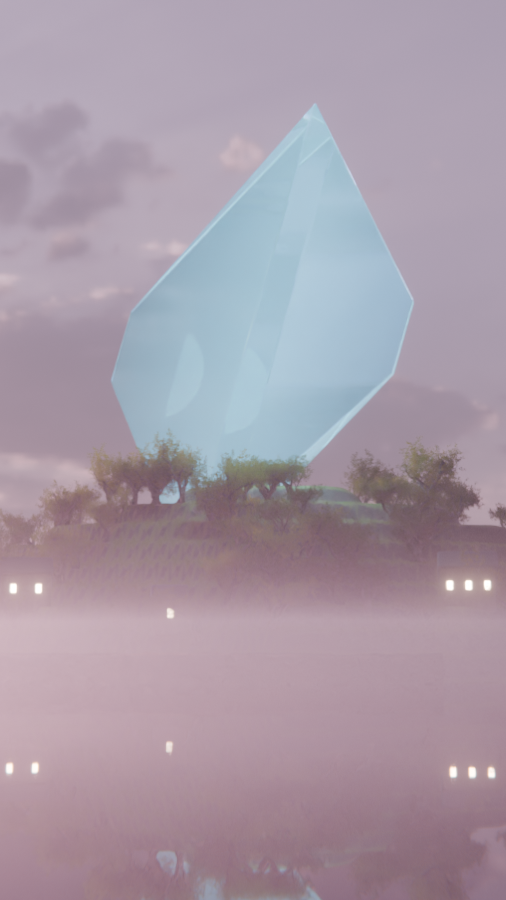
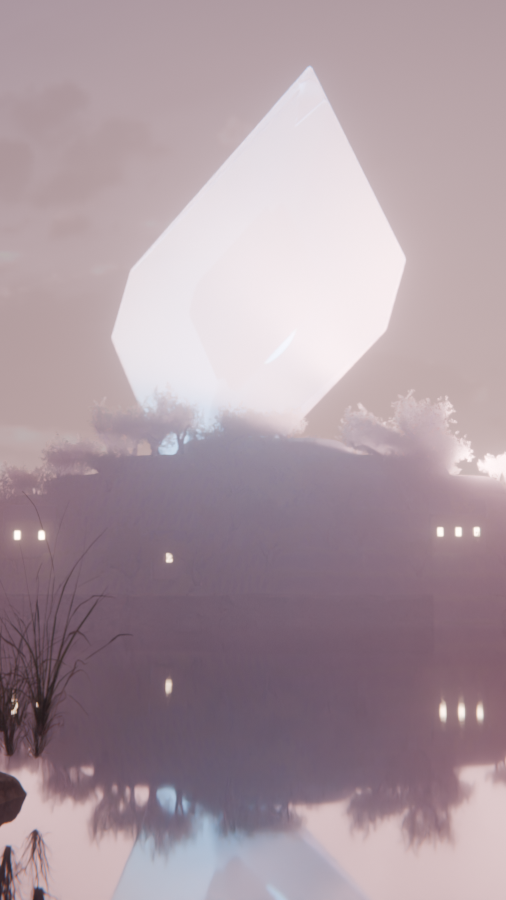
Crystal Isle second pass draft

diff --git a/directions/concept-isle/crystal_isle.py b/directions/concept-isle/crystal_isle.py
@@ -98,8 +98,12 @@ vol = N.new('ShaderNodeVolumePrincipled')
 vol.inputs['Color'].default_value = SKY
 vol.inputs['Density'].default_value = 0.012; vol.inputs['Absorption Color'].default_value = SKY
 vol.inputs['Emission Color'].default_value = SKY
-vol.inputs['Emission Strength'].default_value = 0.05
-L.new(vol.outputs[0], N['Material Output'].inputs['Volume'])
+vol.inputs['Emission Strength'].default_value = 0.02
+# tint the light passing through the body so the backlit dawn turns sky blue inside the glass
+ab = N.new('ShaderNodeVolumeAbsorption'); ab.inputs['Color'].default_value = (0.12, 0.62, 1.0, 1)
+ab.inputs['Density'].default_value = 0.05
+addv = N.new('ShaderNodeAddShader'); L.new(vol.outputs[0], addv.inputs[0]); L.new(ab.outputs[0], addv.inputs[1])
+L.new(addv.outputs[0], N['Material Output'].inputs['Volume'])
 crystal.data.materials.append(m)
 
 # light inside: a smaller inner gem of pale blue light, the same shape
@@ -107,12 +111,12 @@ core = gem_mesh('core', SCALE * 0.42, 0.30, 0.2)
 core.location = (0, 6, 70); core.rotation_euler = crystal.rotation_euler
 m, N, L = mat('core_light')
 N.remove(N['Principled BSDF'])
-em = N.new('ShaderNodeEmission'); em.inputs['Color'].default_value = (0.42, 0.85, 1.0, 1)
-em.inputs['Strength'].default_value = 2.5
+em = N.new('ShaderNodeEmission'); em.inputs['Color'].default_value = (0.18, 0.62, 1.0, 1)
+em.inputs['Strength'].default_value = 0.9
 L.new(em.outputs[0], N['Material Output'].inputs['Surface'])
 core.data.materials.append(m)
 core.visible_shadow = False; core.visible_diffuse = False; core.visible_volume_scatter = False
-pl = bpy.data.lights.new("crystal_glow", "POINT"); pl.energy = 2.5e5; pl.color = SKY[:3]
+pl = bpy.data.lights.new("crystal_glow", "POINT"); pl.energy = 1.6e5; pl.color = SKY[:3]
 pl.shadow_soft_size = 14
 plo = link_obj("crystal_glow", pl); plo.location = (0, 6, 66); plo.visible_glossy = False; plo.visible_camera = False
 
@@ -330,7 +334,7 @@ def haze_bank():
 # ---------------------------------------------------------------- sun and sky
 sun = bpy.data.lights.new('sun', 'SUN'); sun.energy = 22.0; sun.angle = math.radians(1.0)
 sun.color = (1.0, 0.70, 0.62)
-so = link_obj('sun', sun); so.visible_glossy = False
+so = link_obj('sun', sun); so.visible_glossy = False; so.visible_transmission = False
 el, az = math.radians(4.5), math.radians(11.0)        # low, behind the island's right shoulder
 to_sun = Vector((math.sin(az) * math.cos(el), math.cos(az) * math.cos(el), math.sin(el)))
 so.rotation_euler = to_sun.to_track_quat('Z', 'Y').to_euler()
@@ -372,11 +376,11 @@ def place(src, loc, rot, sc):
     return ob
 for (x, y, sc, k) in [(-38, -304, 3.2, 0), (-31, -299, 2.4, 1), (-43, -296, 2.0, 2), (-27, -306, 1.6, 3),
                       (-4, -300, 1.8, 2), (2, -296, 1.3, 0)]:
-    r = place(ROCKS[k], (x, y, -1.2 * sc / 2), rng.uniform(0, 6.28), (sc, sc, sc * 0.9))
+    r = place(ROCKS[k], (x, y, -0.25 * sc), rng.uniform(0, 6.28), (sc, sc, sc * 0.9))
     for q in range(int(10 * sc)):
         gx, gy = x + rng.uniform(-1.2, 1.2) * sc, y + rng.uniform(-1.0, 1.0) * sc
         gs = rng.uniform(4.0, 7.0)
-        place(rng.choice(GRASS), (gx, gy, rng.uniform(0.2, 0.9) * sc), rng.uniform(0, 6.28), (gs, gs, gs * 1.4))
+        place(rng.choice(GRASS), (gx, gy, rng.uniform(0.3, 0.8) * sc), rng.uniform(0, 6.28), (gs, gs, gs * 1.4))
 
 # ---------------------------------------------------------------- camera
 cam = bpy.data.cameras.new('cam'); cam.lens = 35; cam.sensor_width = 36
